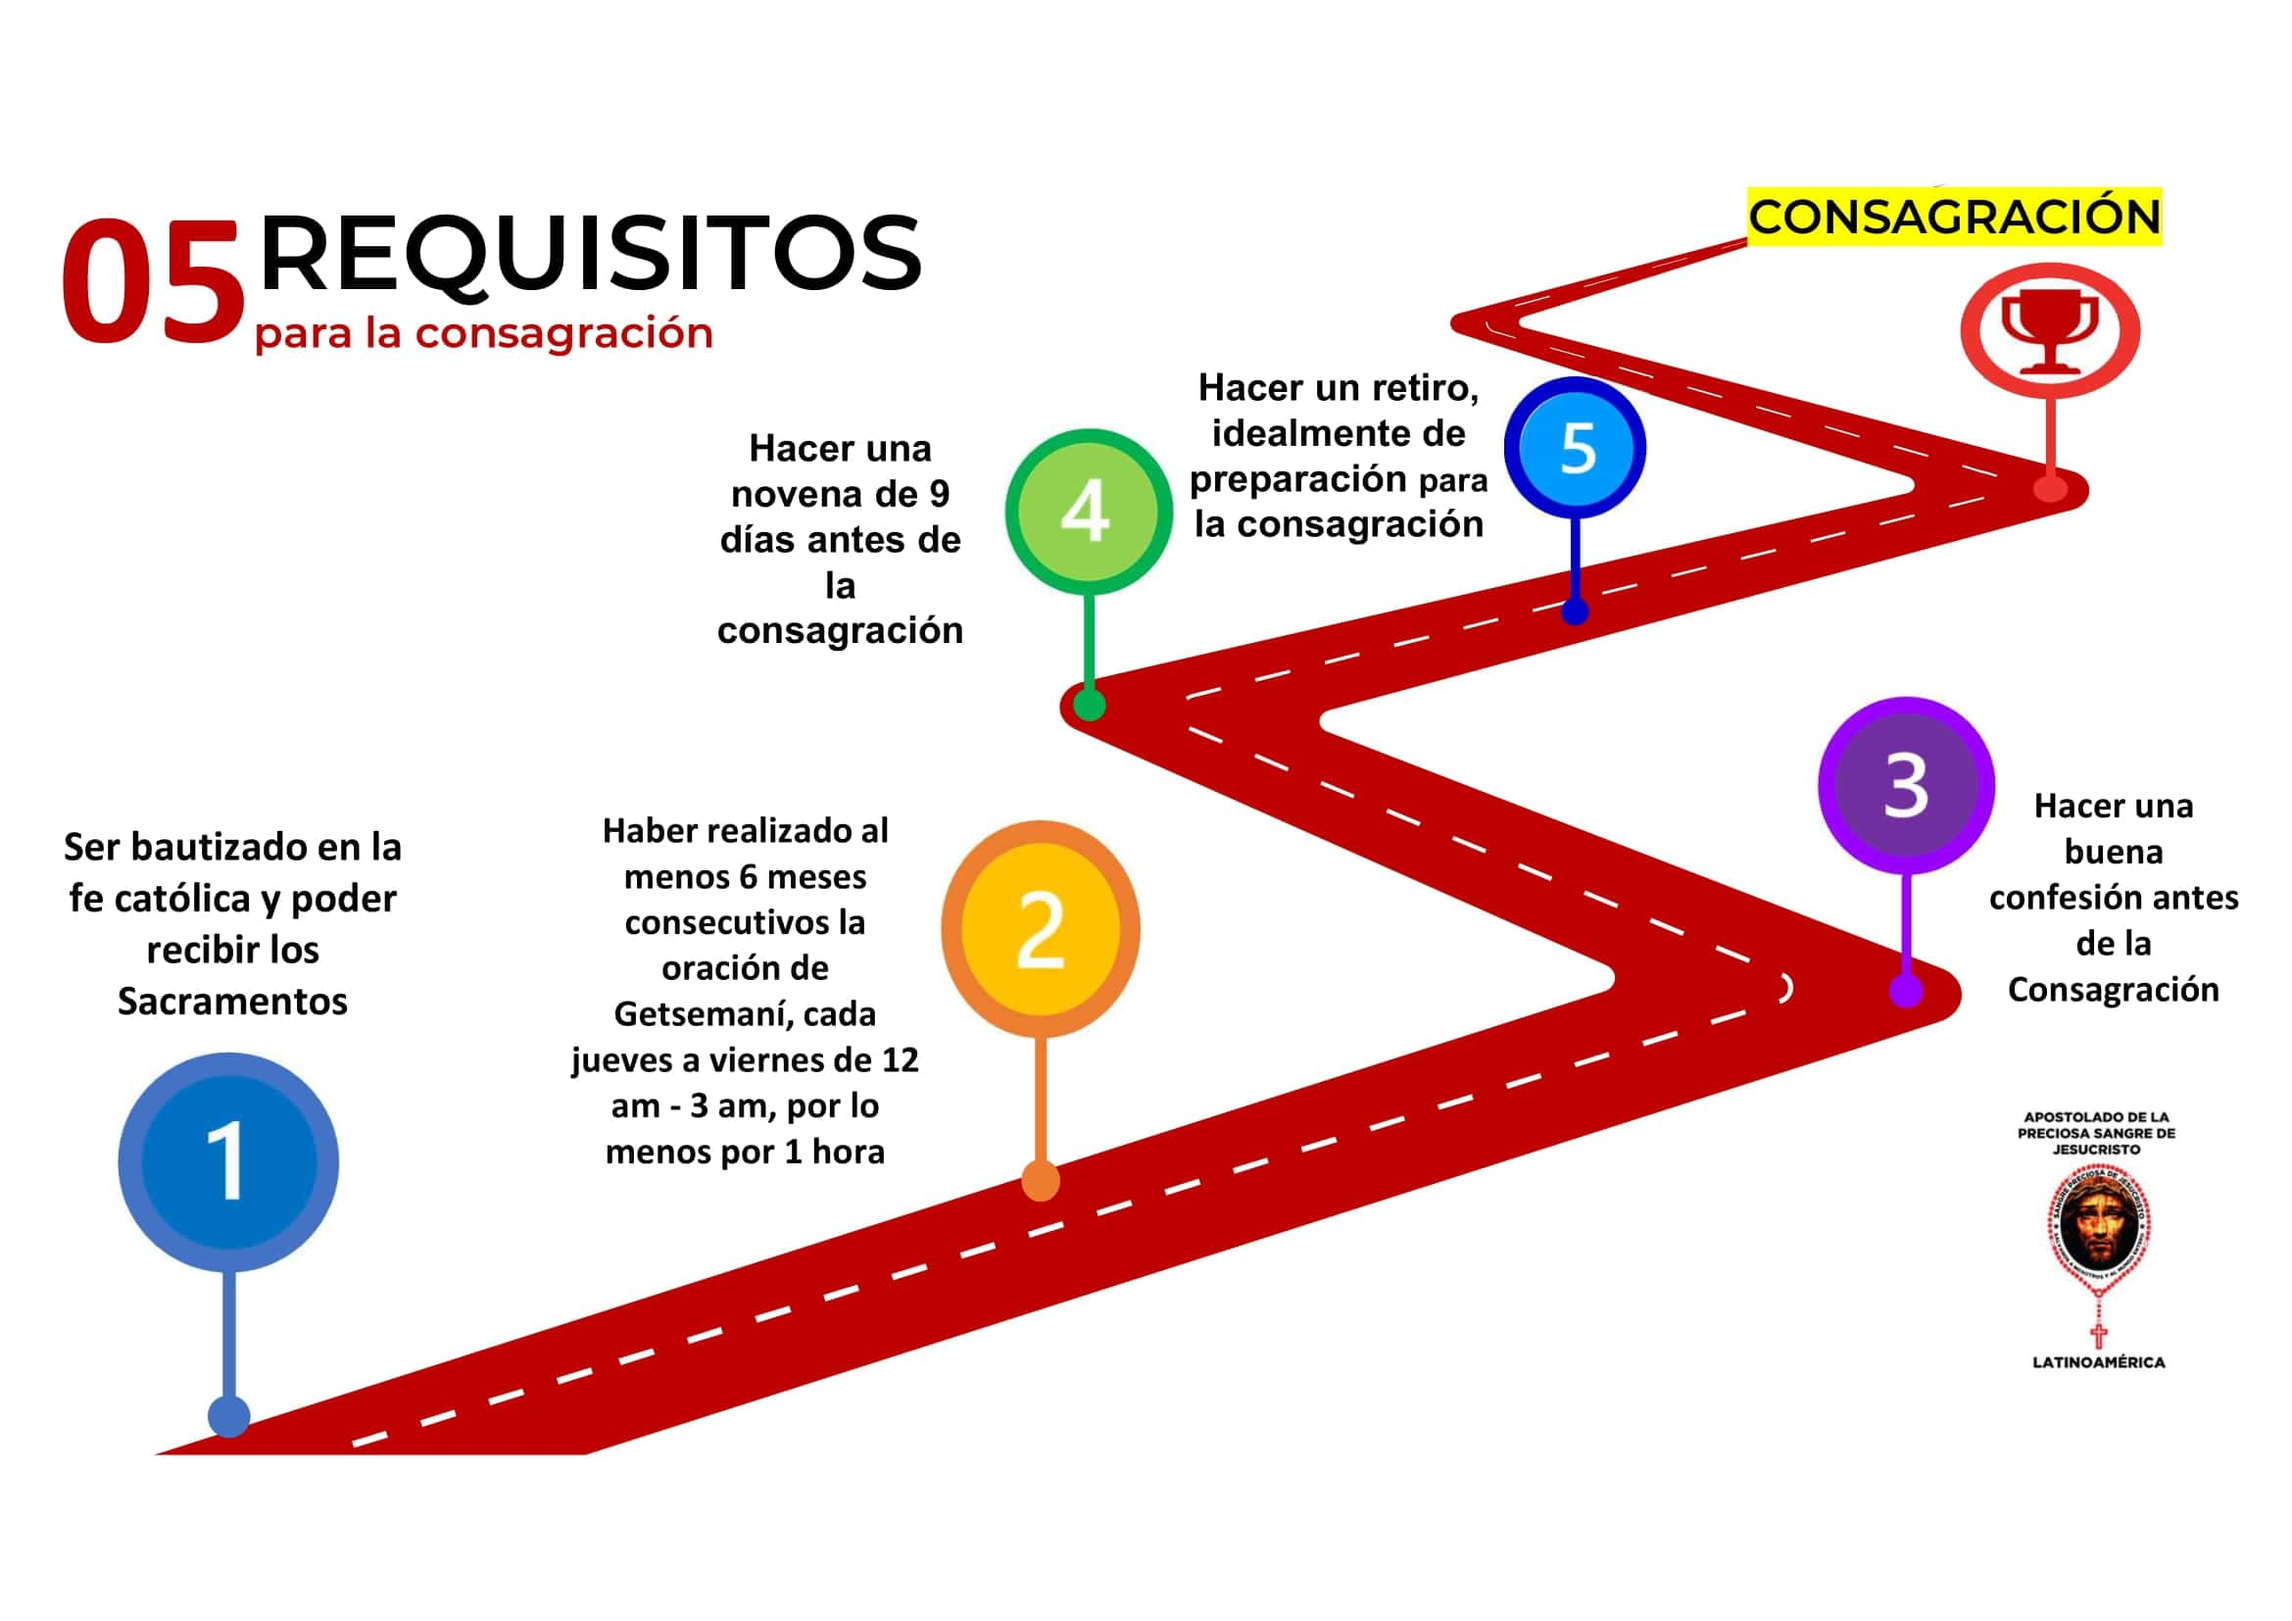
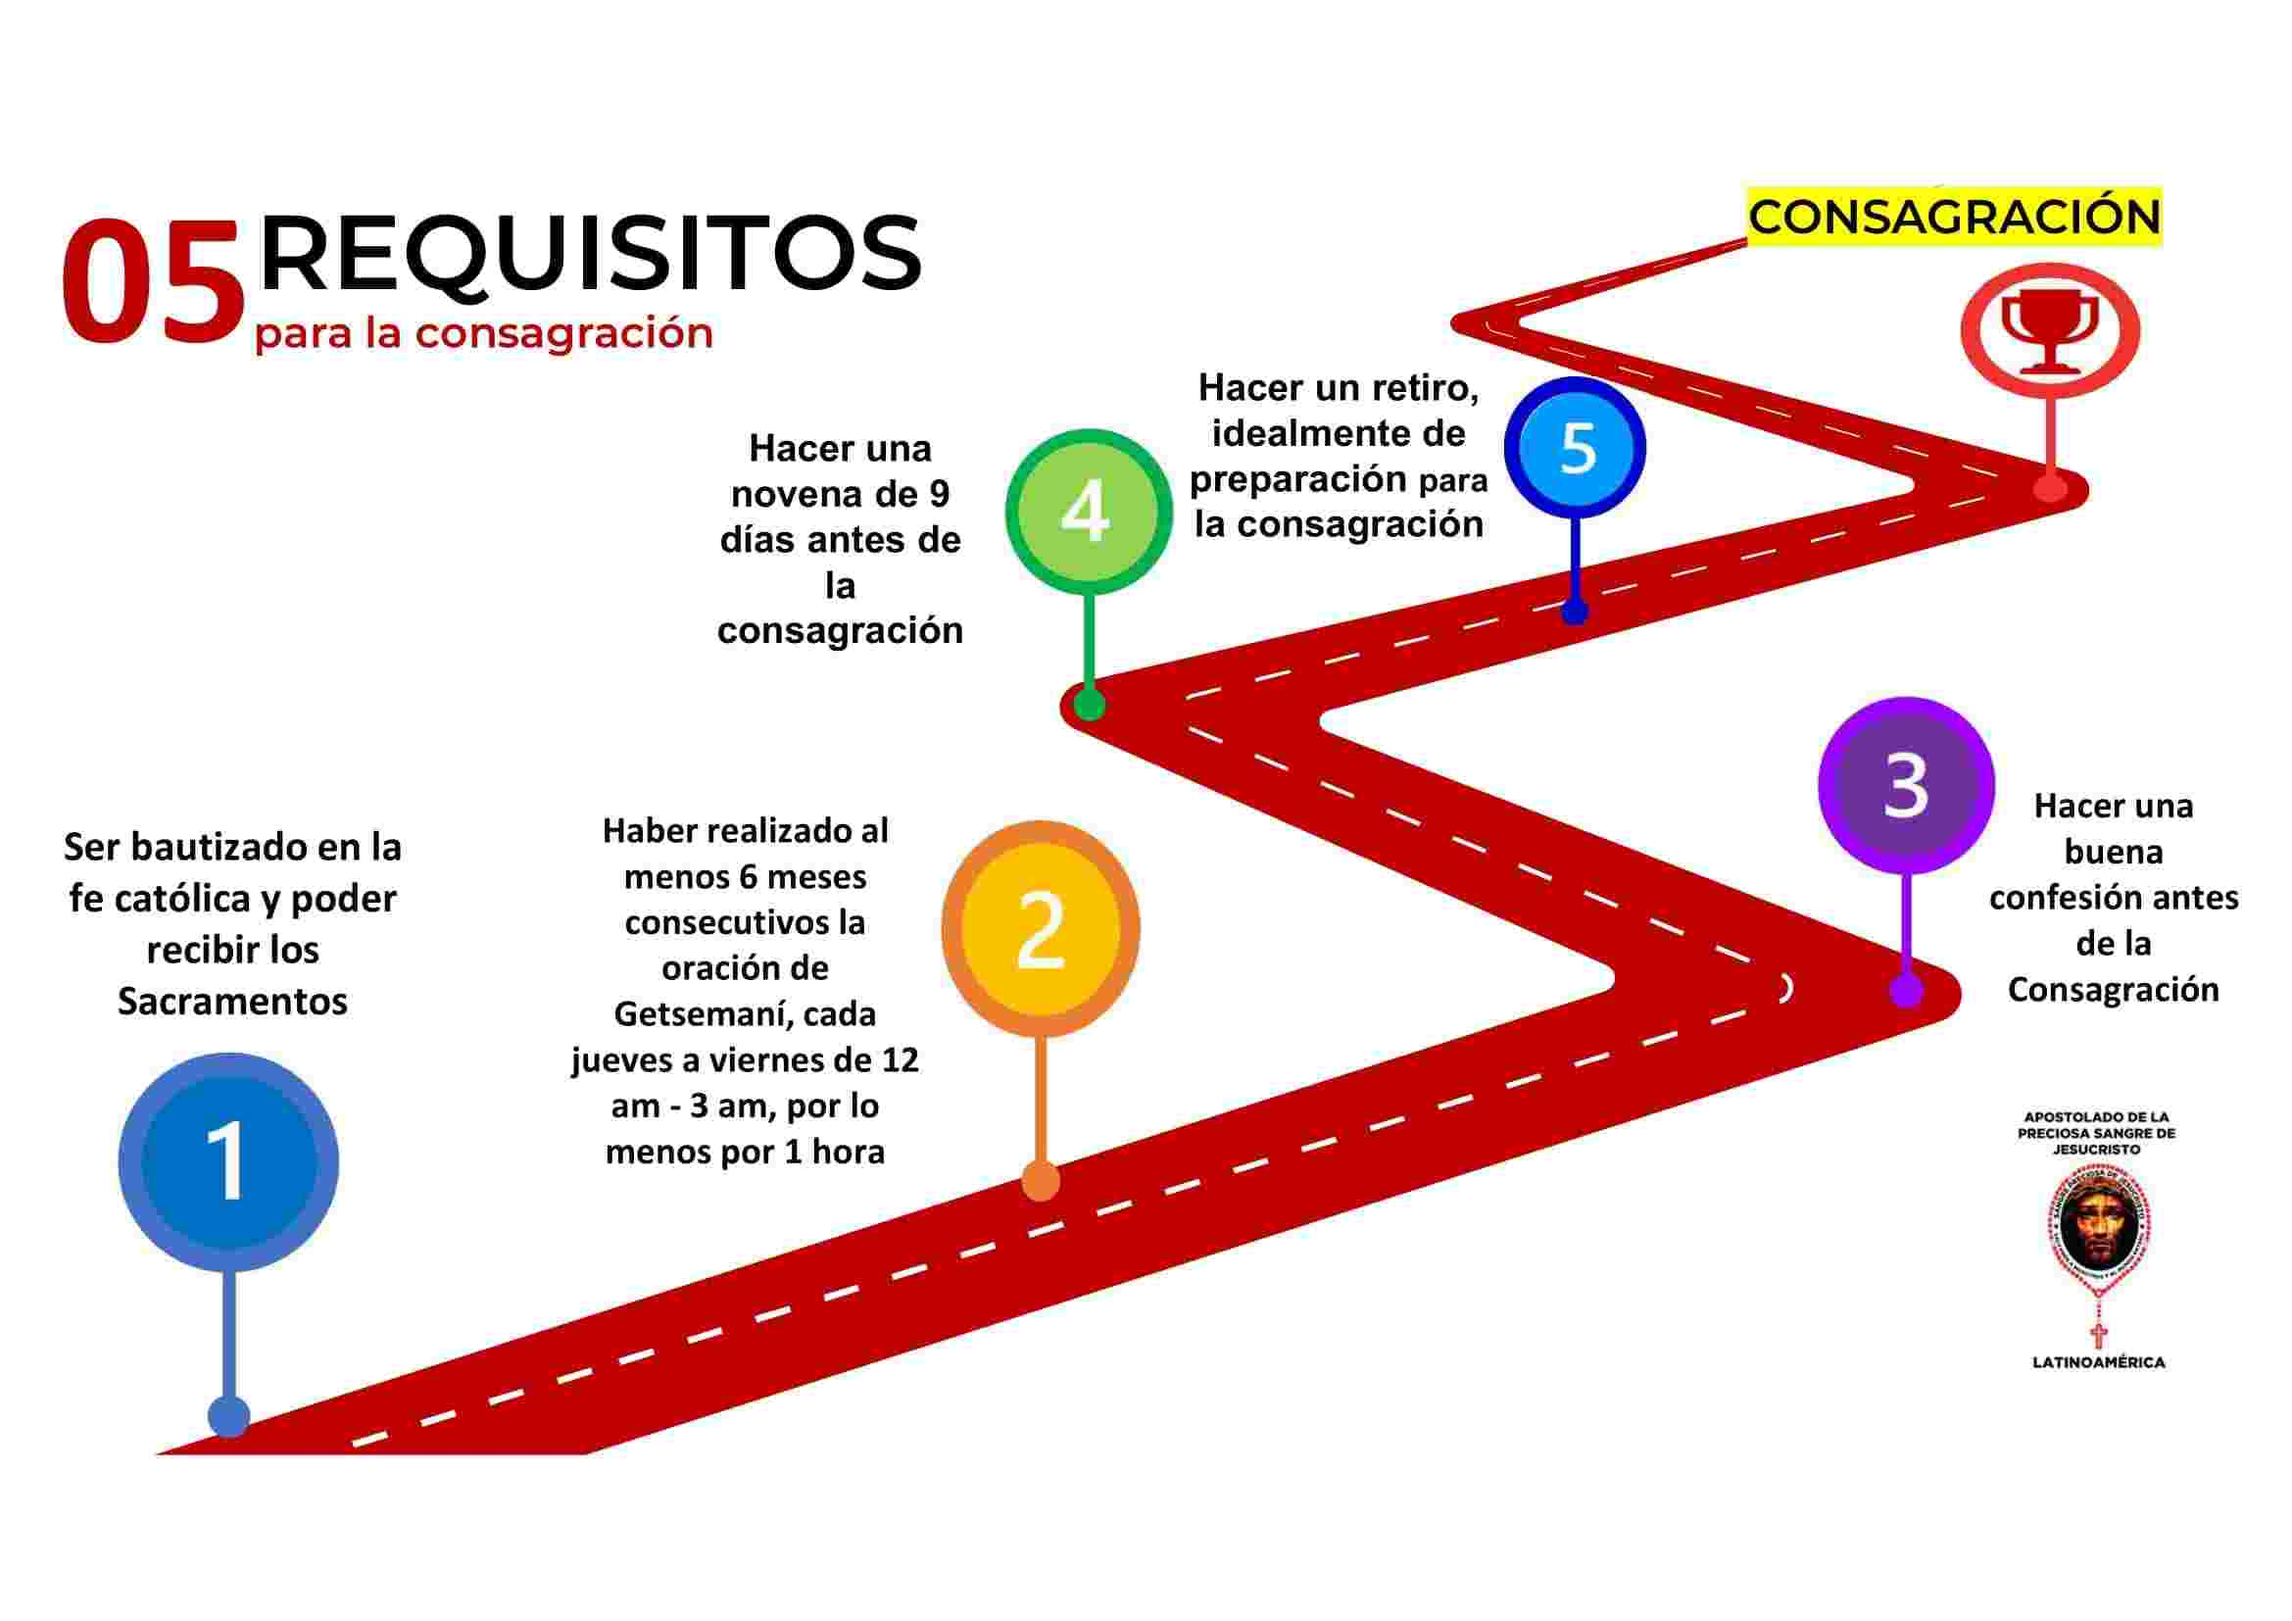
compresion imagenes

diff --git a/src/components/hero/Hero.scss b/src/components/hero/Hero.scss
@@ -1,15 +1,14 @@
 .section-hero {
-    background: //linear-gradient(rgba(0, 0, 0, 0.6), rgba(0, 0, 0, 0.6)),
-        url(../../assets/images/background.jfif) no-repeat bottom center;
+    background: url(../../assets/images/background.jfif) no-repeat bottom center;
     background-size: cover;
     position: relative;
     height: 100%;
     padding: 100px 0px 100px 0px;
     box-shadow: inset rgba(0, 0, 0, 0.5) 0 0 0 500px;
     transition: box-shadow 400ms;
-    &:is(:hover, :focus){
+    &:is(:hover, :focus) {
         box-shadow: inset rgba(0, 0, 0, 0) 0 0 0 500px;
-        #section-hero__title{
+        #section-hero__title {
             filter: drop-shadow(0px 0px 2px black);
         }
     }
@@ -21,7 +20,7 @@
             padding: 0 4px;
             color: rgba(255, 255, 255, 0.8);
             font-size: 1.7rem;
-            font-family: 'Open Sans', sans-serif;
+            font-family: "Open Sans", sans-serif;
         }
         .intro-text {
             position: relative;
@@ -67,7 +66,7 @@
                 background: #e6ab67;
                 padding: 0.8em;
                 img {
-                    border-radius: .8em;
+                    border-radius: 0.8em;
                 }
             }
         }

diff --git a/src/data/ImageArray.js b/src/data/ImageArray.js
@@ -1,12 +1,12 @@
-import image1 from '../assets/images/img1-min.jpeg'
-import image2 from '../assets/images/img2-min.jpeg'
-import image3 from '../assets/images/img3-min.jpeg'
-import image4 from '../assets/images/img4-min.jpeg'
-import image5 from '../assets/images/img5-min.jpeg'
-import image6 from '../assets/images/img6-min.jpeg'
-import image7 from '../assets/images/img7-min.jpeg'
-import image8 from '../assets/images/img8-min.jpeg'
-import image9 from '../assets/images/img9-min.jpeg'
+import image1 from '../assets/images/img1-min.jpg'
+import image2 from '../assets/images/img2-min.jpg'
+import image3 from '../assets/images/img3-min.jpg'
+import image4 from '../assets/images/img4-min.jpg'
+import image5 from '../assets/images/img5-min.jpg'
+import image6 from '../assets/images/img6-min.jpg'
+import image7 from '../assets/images/img7-min.jpg'
+import image8 from '../assets/images/img8-min.jpg'
+import image9 from '../assets/images/img9-min.jpg'
 
 export const listImage = [
     {
